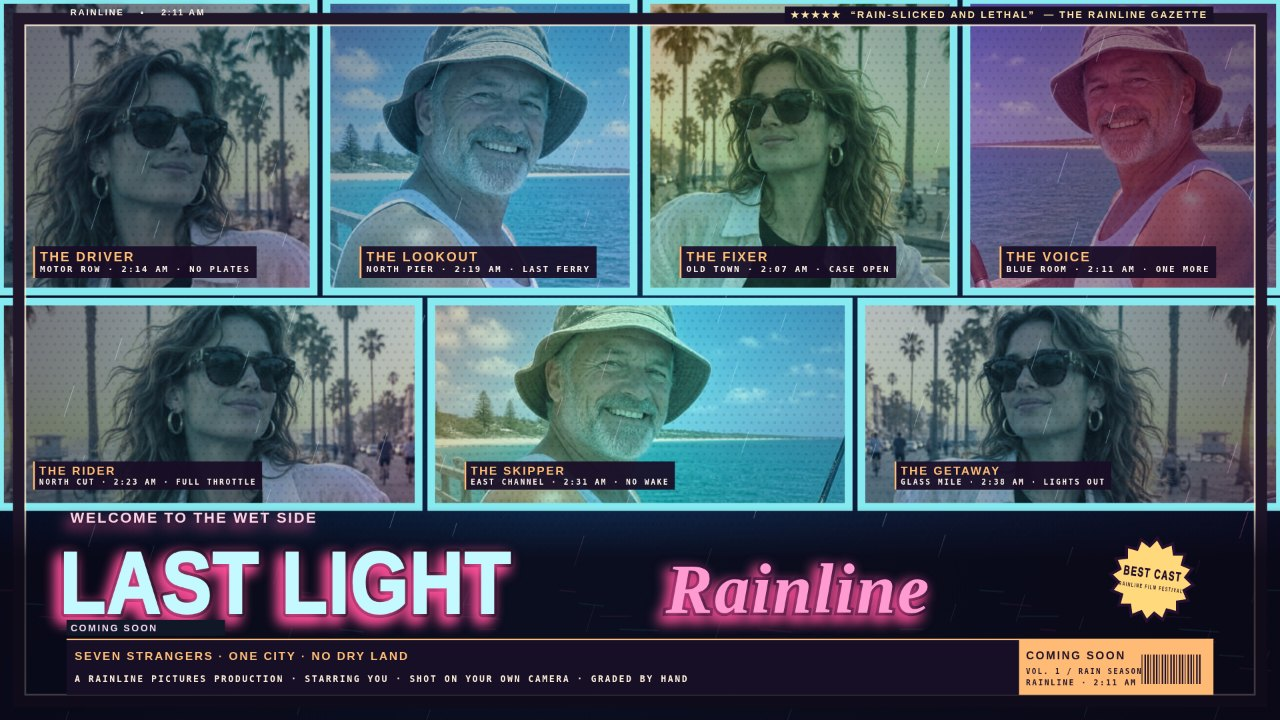
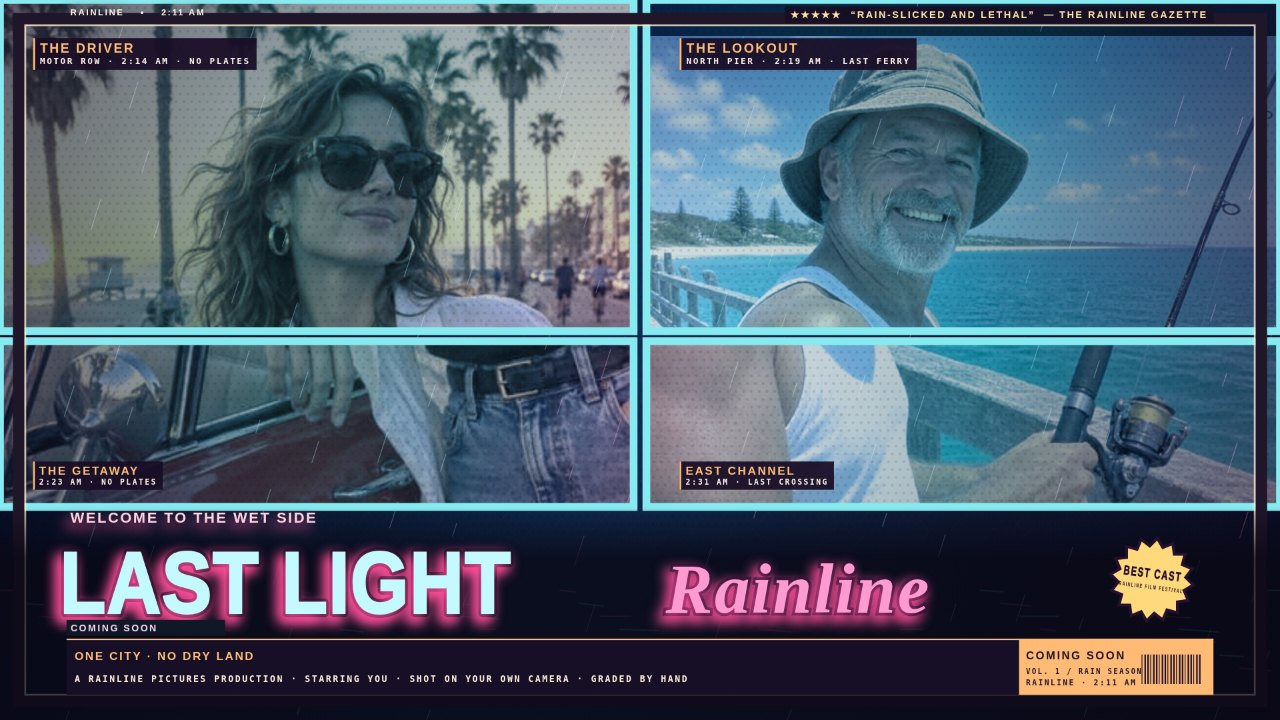
Refine Rainline lead to four panels and remove cast headcounts

diff --git a/app/src/app.js b/app/src/app.js
@@ -12,11 +12,11 @@ const gradePresets = {
   teal: { name: 'Tropic Teal', filter: 'saturate(1.21) contrast(1.12)', colors: ['#ffd089', '#32cfb7', '#075e72'], opacity: .46 },
   heat: { name: 'Heatwave', filter: 'sepia(.24) saturate(1.55) contrast(1.15)', colors: ['#ffe08f', '#f87838', '#912955'], opacity: .42 },
 };
-const layoutPresets = { mosaic: 'Mosaic · 6', seven: 'Seven · 7', hero: 'Hero · 5', grid: 'Grid · 6', slant: 'Slant Seven · 7', solo: 'Solo Poster · 1' };
+const layoutPresets = { mosaic: 'Mosaic · 6', seven: 'Seven · 7', hero: 'Hero', grid: 'Grid · 6', slant: 'Slant Seven · 7', solo: 'Solo Poster · 1' };
 const captionStyles = { ice: 'Ice Neon', gloss: 'Afterglow Gloss', chrome: 'Liquid Chrome', tube: 'Electric Script', band: 'Skyline Block' };
 const captionFields = ['caption', 'subcaption', 'kicker', 'tagline', 'review', 'source', 'billing', 'seal', 'ring', 'release', 'edition', 'title-font', 'script-font'];
 const finishToggles = { 'grain-toggle': 'grain', 'vignette-toggle': 'vignette', 'badge-toggle': 'badge', 'furniture-toggle': 'furniture', 'rain-toggle': 'rain' };
-const treatment = { grade: 'night', strength: .92, layout: 'seven', style: 'ice', ink: .10, grain: true, vignette: true, badge: true, furniture: true, rain: true };
+const treatment = { grade: 'night', strength: .92, layout: 'hero', style: 'ice', ink: .10, grain: true, vignette: true, badge: true, furniture: true, rain: true };
 const initialPhotos = [
   { name: 'Boulevard Driver', src: '/samples/boulevard.jpg', tag: 'THE DRIVER', line: 'MOTOR ROW · 2:14 AM · NO PLATES' },
   { name: 'Pier Watcher', src: '/samples/pier.jpg', tag: 'THE LOOKOUT', line: 'NORTH PIER · 2:19 AM · LAST FERRY' },
@@ -57,6 +57,11 @@ function coverFrames(width, height) {
       return [[left,top],[right,top],[right,bottom],[left,bottom]];
     });
   }
+  if (treatment.layout === 'hero' && landscape) return [
+    [[0,0],[.495,0],[.495,.46],[0,.46]], [[.505,0],[1,0],[1,.46],[.505,.46]],
+    [[0,.474],[.495,.474],[.495,.704],[0,.704]],
+    [[.505,.474],[1,.474],[1,.704],[.505,.704]],
+  ];
   if (treatment.layout === 'hero') return [
     [[0,0],[.62,0],[.59,.46],[0,.46]], [[.64,0],[1,0],[1,.22],[.62,.22]],
     [[.63,.24],[1,.24],[1,.46],[.60,.46]], [[0,.48],[.48,.48],[.45,.70],[0,.70]],
@@ -629,8 +634,11 @@ function restoreEdit(offset) {
 }
 
 function setSceneCrops(scene, width, height) {
+  const rainLead = scene === 'lead' && treatment.layout === 'hero' && width / height > 1.25;
   const scenes = {
-    lead: [[0,1.70,65,0], [1,1.70,25,0], [2,1.45,62,0], [3,1.40,28,0], [4,1.20,64,12], [5,1.20,27,10], [6,1.12,58,11]],
+    lead: rainLead
+      ? [[0,1.08,65,0], [1,1,25,-12], [0,1.3,0,80], [1,1.3,100,72]]
+      : [[0,1.70,65,0], [1,1.70,25,0], [2,1.45,62,0], [3,1.40,28,0], [4,1.20,64,12], [5,1.20,27,10], [6,1.12,58,11]],
     story: [[2,1.45,62,0], [3,1.22,33,5], [4,1.18,65,4], [5,1.22,27,8], [6,1.10,60,8]],
     solo: [[4,1.65,65,3]],
   };
@@ -643,6 +651,10 @@ function setSceneCrops(scene, width, height) {
     if ((scene === 'lead' && index > 0) || (scene === 'story' && index > 0)) {
       frame.tag = photos[photo].tag;
       frame.line = photos[photo].line;
+    }
+    if (rainLead && index >= 2) {
+      frame.tag = ['THE GETAWAY', 'EAST CHANNEL'][index - 2];
+      frame.line = ['2:23 AM · NO PLATES', '2:31 AM · LAST CROSSING'][index - 2];
     }
     return frame;
   });
@@ -665,7 +677,7 @@ async function start() {
   if (params.has('caption')) captionInput.value = params.get('caption').slice(0, 28);
   document.querySelector('#subcaption').value = params.get('sub') || 'Rainline';
   document.querySelector('#kicker').value = params.get('kicker') || 'WELCOME TO THE WET SIDE';
-  document.querySelector('#tagline').value = params.get('tagline') || 'SEVEN STRANGERS · ONE CITY · NO DRY LAND';
+  document.querySelector('#tagline').value = params.get('tagline') || (params.get('scene') === 'story' ? 'ONE LAST CROSSING' : 'ONE CITY · NO DRY LAND');
   if (params.has('review')) document.querySelector('#review').value = params.get('review');
   if (params.has('source')) document.querySelector('#source').value = params.get('source');
   syncFinishControls();
@@ -682,7 +694,7 @@ async function start() {
   ];
   photos.forEach((photo) => { photo.crop = castCrops[initialPhotos.findIndex(({ name }) => name === photo.name)]; });
   const selected = Object.hasOwn(sizes, params.get('size')) ? params.get('size') : 'landscape';
-  setSceneCrops(params.get('scene') || (selected === 'landscape' && treatment.layout === 'seven' ? 'lead' : ''), ...sizes[selected]);
+  setSceneCrops(params.get('scene') || (selected === 'landscape' && ['hero', 'seven'].includes(treatment.layout) ? 'lead' : ''), ...sizes[selected]);
   setFormat(selected);
   if (params.has('panelGradeIndex')) {
     const index = Number(params.get('panelGradeIndex'));

diff --git a/app/index.html b/app/index.html
@@ -70,7 +70,7 @@
           <div class="card-heading"><span class="step">02</span><span>YOUR HEADLINE</span><span class="muted">CAPTION STUDIO</span></div>
           <label class="sr-only" for="caption">Cover title</label><input id="caption" class="caption-input" maxlength="28" value="LAST LIGHT" autocomplete="off">
           <div class="field-pair"><label><span>Script line</span><input id="subcaption" class="text-field" maxlength="24" value="Rainline"></label><label><span>Kicker</span><input id="kicker" class="text-field" maxlength="28" value="WELCOME TO THE WET SIDE"></label></div>
-          <div class="field-pair"><label><span>Tagline</span><input id="tagline" class="text-field" maxlength="46" value="SEVEN STRANGERS · ONE CITY · NO DRY LAND"></label><label><span>Title font</span><select id="title-font" class="grade-select"><option>Impact</option><option>Arial Black</option><option>Georgia</option></select></label></div>
+          <div class="field-pair"><label><span>Tagline</span><input id="tagline" class="text-field" maxlength="46" placeholder="ONE CITY · NO DRY LAND" value="ONE CITY · NO DRY LAND"></label><label><span>Title font</span><select id="title-font" class="grade-select"><option>Impact</option><option>Arial Black</option><option>Georgia</option></select></label></div>
           <div class="field-pair"><label><span>Script font</span><select id="script-font" class="grade-select"><option>Brush Script MT</option><option>Segoe Script</option><option>Georgia</option></select></label><label><span>Seal</span><select id="seal" class="grade-select"><option>BEST CAST</option><option>ORIGINAL</option><option>EST. 86</option></select></label></div>
           <div class="field-pair"><label><span>Review quote</span><input id="review" class="text-field" value="RAIN-SLICKED AND LETHAL"></label><label><span>Source</span><input id="source" class="text-field" value="THE RAINLINE GAZETTE"></label></div>
           <div class="field-pair"><label><span>Billing</span><input id="billing" class="text-field" value="A RAINLINE PICTURES PRODUCTION · STARRING YOU · SHOT ON YOUR OWN CAMERA · GRADED BY HAND"></label><label><span>Seal ring</span><input id="ring" class="text-field" value="RAINLINE FILM FESTIVAL"></label></div>
@@ -89,7 +89,7 @@
           <div class="field-label">LAYOUT · ALL FRAMES AUTO-FILL</div><div class="layout-chips" id="layouts">
             <button data-layout="mosaic" type="button" class="selected" aria-label="Mosaic layout, six panels"><span class="layout-icon mosaic-icon"><i></i><i></i><i></i><i></i><i></i><i></i></span><b>Mosaic · 6</b></button>
             <button data-layout="seven" type="button" aria-label="Mosaic layout, seven panels"><span class="layout-icon seven-icon"><i></i><i></i><i></i><i></i><i></i><i></i><i></i></span><b>Seven · 7</b></button>
-            <button data-layout="hero" type="button" aria-label="Hero layout, five panels"><span class="layout-icon hero-icon"><i></i><i></i><i></i><i></i><i></i></span><b>Hero · 5</b></button>
+            <button data-layout="hero" type="button" aria-label="Hero layout, four landscape or five portrait panels"><span class="layout-icon hero-icon"><i></i><i></i><i></i><i></i></span><b>Hero</b></button>
             <button data-layout="grid" type="button" aria-label="Grid layout, six panels"><span class="layout-icon grid-icon"><i></i><i></i><i></i><i></i><i></i><i></i></span><b>Grid · 6</b></button>
             <button data-layout="slant" type="button" aria-label="Slant Seven layout, seven panels"><span class="layout-icon strip-icon"><i></i><i></i><i></i><i></i><i></i><i></i><i></i></span><b>Slant Seven · 7</b></button>
             <button data-layout="solo" type="button" aria-label="Solo Poster layout, one panel"><span class="layout-icon solo-icon"><i></i></span><b>Solo Poster · 1</b></button>

diff --git a/README.md b/README.md
@@ -8,11 +8,11 @@ Build a Rainline film poster from local photographs. Tune the crop and color gra
 
 Open `app/index.html` from any local static server. From this repository, run `node serve.ts` and open http://localhost:8080. No fonts, scripts, photos or requests are fetched from the internet; uploaded images stay in your browser.
 
-The seven cast presets use just two included real photographs in different crops: Boulevard supplies Driver, Fixer, Rider and Getaway; Pier supplies Lookout, Voice and Skipper. Fixer, Voice and Getaway are flipped. The woman wears sunglasses in the original photo. Add your own photographs, edit the headline directly in the panel and tap any frame to change its image and crop.
+The cast library uses just two included real photographs in different crops: Boulevard supplies Driver, Fixer, Rider and Getaway; Pier supplies Lookout, Voice and Skipper. Fixer, Voice and Getaway are flipped. The lead shows each person once, with separate car and fishing details. Its tagline is “ONE CITY · NO DRY LAND”; the story reads “ONE LAST CROSSING”. The woman wears sunglasses in the original photo. Add your own photographs, edit the headline directly in the panel and tap any frame to change its image and crop.
 
-Rainline includes six layouts (including Slant Seven and Solo Poster), six global and per-panel grades, editable character tags and scene lines, Flip / Swap next, Undo / Redo and Surprise me. The default Neon Night finish adds rain streaks and wet-road reflections. Poster credits include editable review and source, seal and ring, volume ticket, barcode, release line, billing footer and tagline ribbon. New panels fill automatically from the local photo library.
+Rainline includes six layouts (including Slant Seven and Solo Poster), six global and per-panel grades, editable character tags and scene lines, Flip / Swap next, Undo / Redo and Surprise me. The default Hero lead has four panels: two portraits, a getaway detail and an east-channel detail, all cropped from the same two kit photos. Neon Night adds rain streaks and wet-road reflections. Poster credits include editable review and source, seal and ring, volume ticket, barcode, release line, billing footer and tagline ribbon. New panels fill automatically from the local photo library.
 
-Each cast preset has its own crop. Fixer and Skipper use teal, Voice uses sunset, and the others follow the global grade (night by default). The solo poster uses a closer Boulevard Rider portrait. There are no illustrated cast assets; these are seven roles played by two people, not seven different people.
+Each cast preset has its own crop. Fixer and Skipper use teal, Voice uses sunset, and the others follow the global grade (night by default). Hero uses four panels in landscape and five in portrait. The solo poster keeps its closer Boulevard Rider portrait and “ONE FACE · NO WAY HOME” tagline. There are no illustrated cast assets; the library contains role presets for two people.
 
 ## Local verification
 
